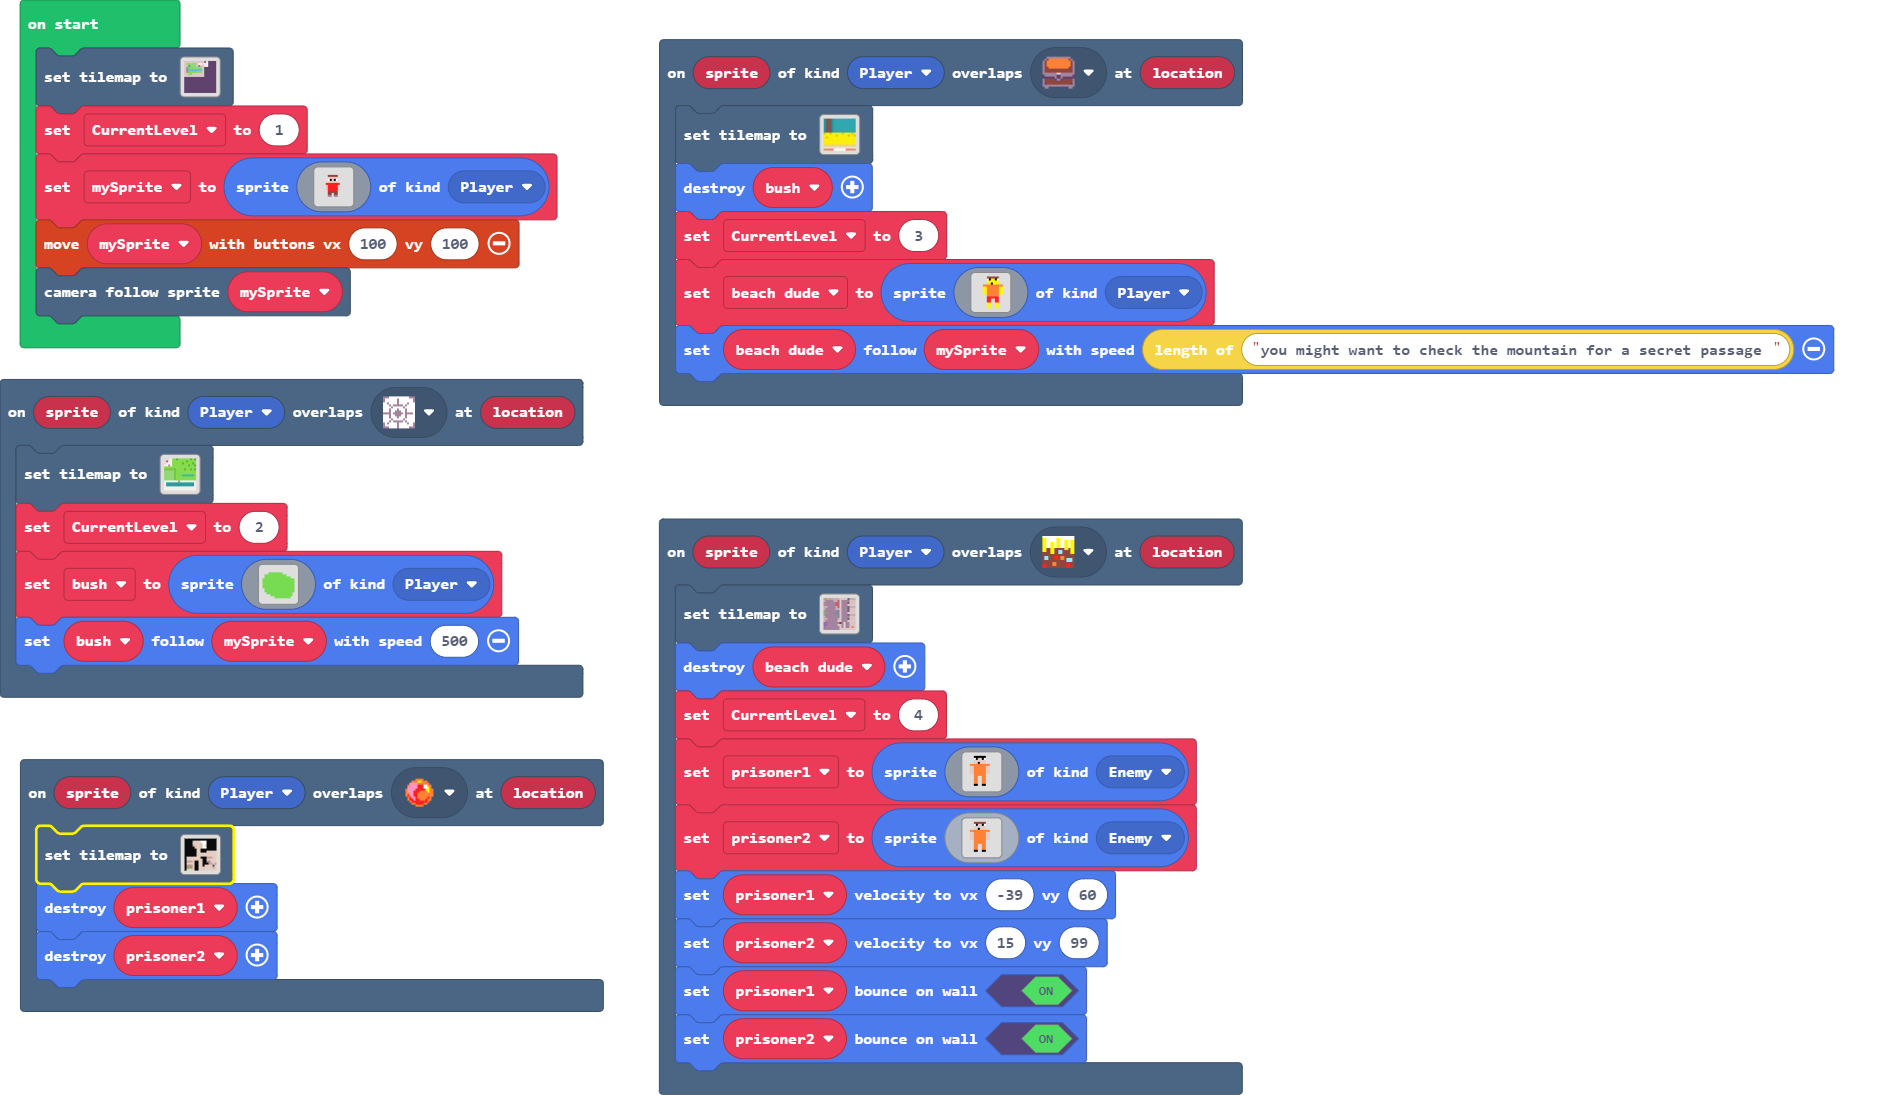
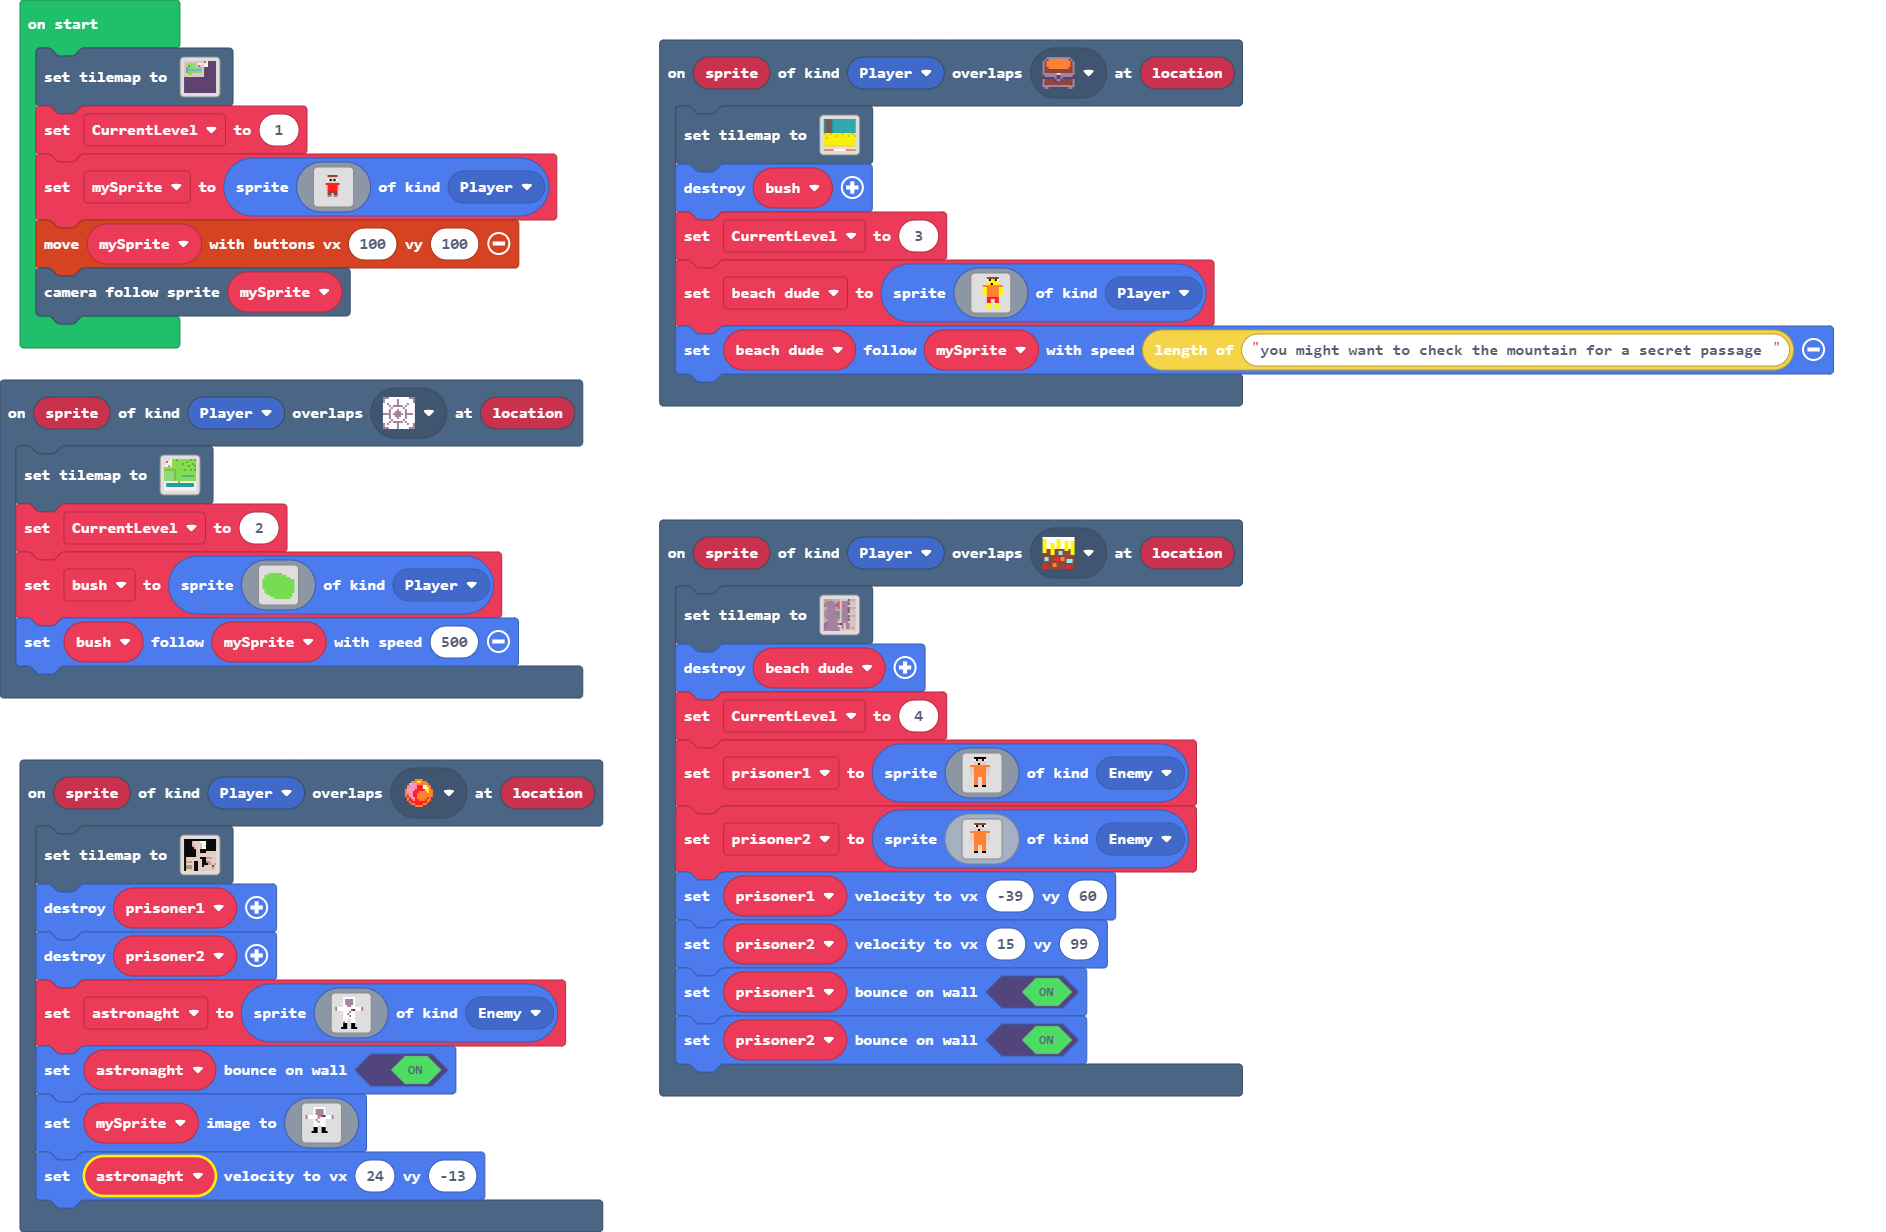
NEW DUDE

diff --git a/images.g.ts b/images.g.ts
@@ -75,7 +75,7 @@ namespace myImages {
 . . . . f f . . f f . . . . . . 
 . . . . . . . . . . . . . . . . 
 `;
-            case "image6":return img`
+            case "image4":return img`
 . . . . e e e e e e . . . . . . 
 . . . . 1 f d d f 1 . . . . . . 
 . . . . d d d d d d . . . . . . 
@@ -93,22 +93,40 @@ namespace myImages {
 . . . . f f . . f f . . . . . . 
 . . . . . . . . . . . . . . . . 
 `;
-            case "image4":return img`
-. . . . e e e e e e . . . . . . 
-. . . . 1 f d d f 1 . . . . . . 
-. . . . d d d d d d . . . . . . 
-. . . . d d f d d d . . . . . . 
-. . 4 4 4 4 4 4 4 4 4 4 . . . . 
-. . d d 4 4 4 4 4 4 d d . . . . 
-. . d d 4 4 4 4 4 4 d d . . . . 
-. . d d 4 4 4 4 4 4 d d . . . . 
-. . d d 4 4 4 4 4 4 d d . . . . 
-. . . . 4 4 4 4 4 4 . . . . . . 
-. . . . 4 4 4 4 4 4 . . . . . . 
-. . . . 4 4 . . 4 4 . . . . . . 
-. . . . 4 4 . . 4 4 . . . . . . 
-. . . . 4 4 . . 4 4 . . . . . . 
+            case "image7":return img`
+. . . . 1 1 1 1 1 1 . . . . . . 
+. . . . 1 b b b b 1 . . . . . . 
+. . . . 1 b b b b 1 . . . . . . 
+. . . . 1 b b b b 1 . . . . . . 
+. . . . 1 1 b b 1 1 . . . . . . 
+b 1 1 1 1 1 1 1 1 1 1 1 1 b . . 
+b 1 1 1 1 1 1 1 2 8 1 1 1 b . . 
+. . . . 1 1 1 b 1 1 . . . . . . 
+. . . . 1 1 b 1 1 1 . . . . . . 
+. . . . 1 1 1 b 1 1 . . . . . . 
+. . . . 1 1 1 1 1 1 . . . . . . 
+. . . . 1 1 . . 1 1 . . . . . . 
+. . . . b 1 . . 1 1 . . . . . . 
 . . . . f f . . f f . . . . . . 
+. . . . f f . . f f . . . . . . 
+. . . f f f . . f f f . . . . . 
+`;
+            case "image6":return img`
+. . . . 1 1 1 1 1 1 . . . . . . 
+. . . . 1 b b b b 1 . . . . . . 
+. . . . 1 b b b b 1 . . . . . . 
+. . . . 1 b b b b 1 . . . . . . 
+b 1 1 1 1 1 b b 2 8 1 1 1 b . . 
+b 1 1 1 1 1 b 1 1 1 1 1 1 b . . 
+. . . . 1 b 1 1 1 1 . . . . . . 
+. . . . 1 1 b 1 1 1 . . . . . . 
+. . . . 1 1 1 1 1 1 . . . . . . 
+. . . . 1 1 . . 1 1 . . . . . . 
+. . . . f f . . f f . . . . . . 
+. . . . f f . . f f . . . . . . 
+. . . f f f . . f f f . . . . . 
+. . . . . . . . . . . . . . . . 
+. . . . . . . . . . . . . . . . 
 . . . . . . . . . . . . . . . . 
 `;
         }

diff --git a/main.ts b/main.ts
@@ -94,7 +94,46 @@ scene.onOverlapTile(SpriteKind.Player, sprites.dungeon.collectibleRedCrystal, fu
     tiles.setTilemap(tilemap`level6`)
     prisoner1.destroy()
     prisoner2.destroy()
+    astronaght = sprites.create(img`
+        . . . . 1 1 1 1 1 1 . . . . . . 
+        . . . . 1 b b b b 1 . . . . . . 
+        . . . . 1 b b b b 1 . . . . . . 
+        . . . . 1 b b b b 1 . . . . . . 
+        . . . . 1 1 b b 1 1 . . . . . . 
+        b 1 1 1 1 1 1 1 1 1 1 1 1 b . . 
+        b 1 1 1 1 1 1 1 2 8 1 1 1 b . . 
+        . . . . 1 1 1 b 1 1 . . . . . . 
+        . . . . 1 1 b 1 1 1 . . . . . . 
+        . . . . 1 1 1 b 1 1 . . . . . . 
+        . . . . 1 1 1 1 1 1 . . . . . . 
+        . . . . 1 1 . . 1 1 . . . . . . 
+        . . . . b 1 . . 1 1 . . . . . . 
+        . . . . f f . . f f . . . . . . 
+        . . . . f f . . f f . . . . . . 
+        . . . f f f . . f f f . . . . . 
+        `, SpriteKind.Enemy)
+    astronaght.setBounceOnWall(true)
+    mySprite.setImage(img`
+        . . . . 1 1 1 1 1 1 . . . . . . 
+        . . . . 1 b b b b 1 . . . . . . 
+        . . . . 1 b b b b 1 . . . . . . 
+        . . . . 1 b b b b 1 . . . . . . 
+        b 1 1 1 1 1 b b 2 8 1 1 1 b . . 
+        b 1 1 1 1 1 b 1 1 1 1 1 1 b . . 
+        . . . . 1 b 1 1 1 1 . . . . . . 
+        . . . . 1 1 b 1 1 1 . . . . . . 
+        . . . . 1 1 1 1 1 1 . . . . . . 
+        . . . . 1 1 . . 1 1 . . . . . . 
+        . . . . f f . . f f . . . . . . 
+        . . . . f f . . f f . . . . . . 
+        . . . f f f . . f f f . . . . . 
+        . . . . . . . . . . . . . . . . 
+        . . . . . . . . . . . . . . . . 
+        . . . . . . . . . . . . . . . . 
+        `)
+    astronaght.setVelocity(24, -13)
 })
+let astronaght: Sprite = null
 let prisoner2: Sprite = null
 let prisoner1: Sprite = null
 let beach_dude: Sprite = null

diff --git a/tilemap.g.ts b/tilemap.g.ts
@@ -234,7 +234,7 @@ namespace myTiles {
 2 2 2 2 2 . . . . . . 2 2 2 2 2 
 2 2 2 2 . . . . 2 . . 2 2 2 2 2 
 2 2 2 2 . 2 . . 2 . . 2 2 2 2 2 
-2 2 2 2 2 2 . . 2 . . 2 2 2 2 2 
+2 2 2 2 . 2 . . 2 . . 2 2 2 2 2 
 2 2 2 2 2 2 . . 2 2 2 2 2 2 2 2 
 2 2 2 2 2 2 . . 2 2 2 . . . . . 
 2 2 2 2 2 2 . . . . . . . . . . 
